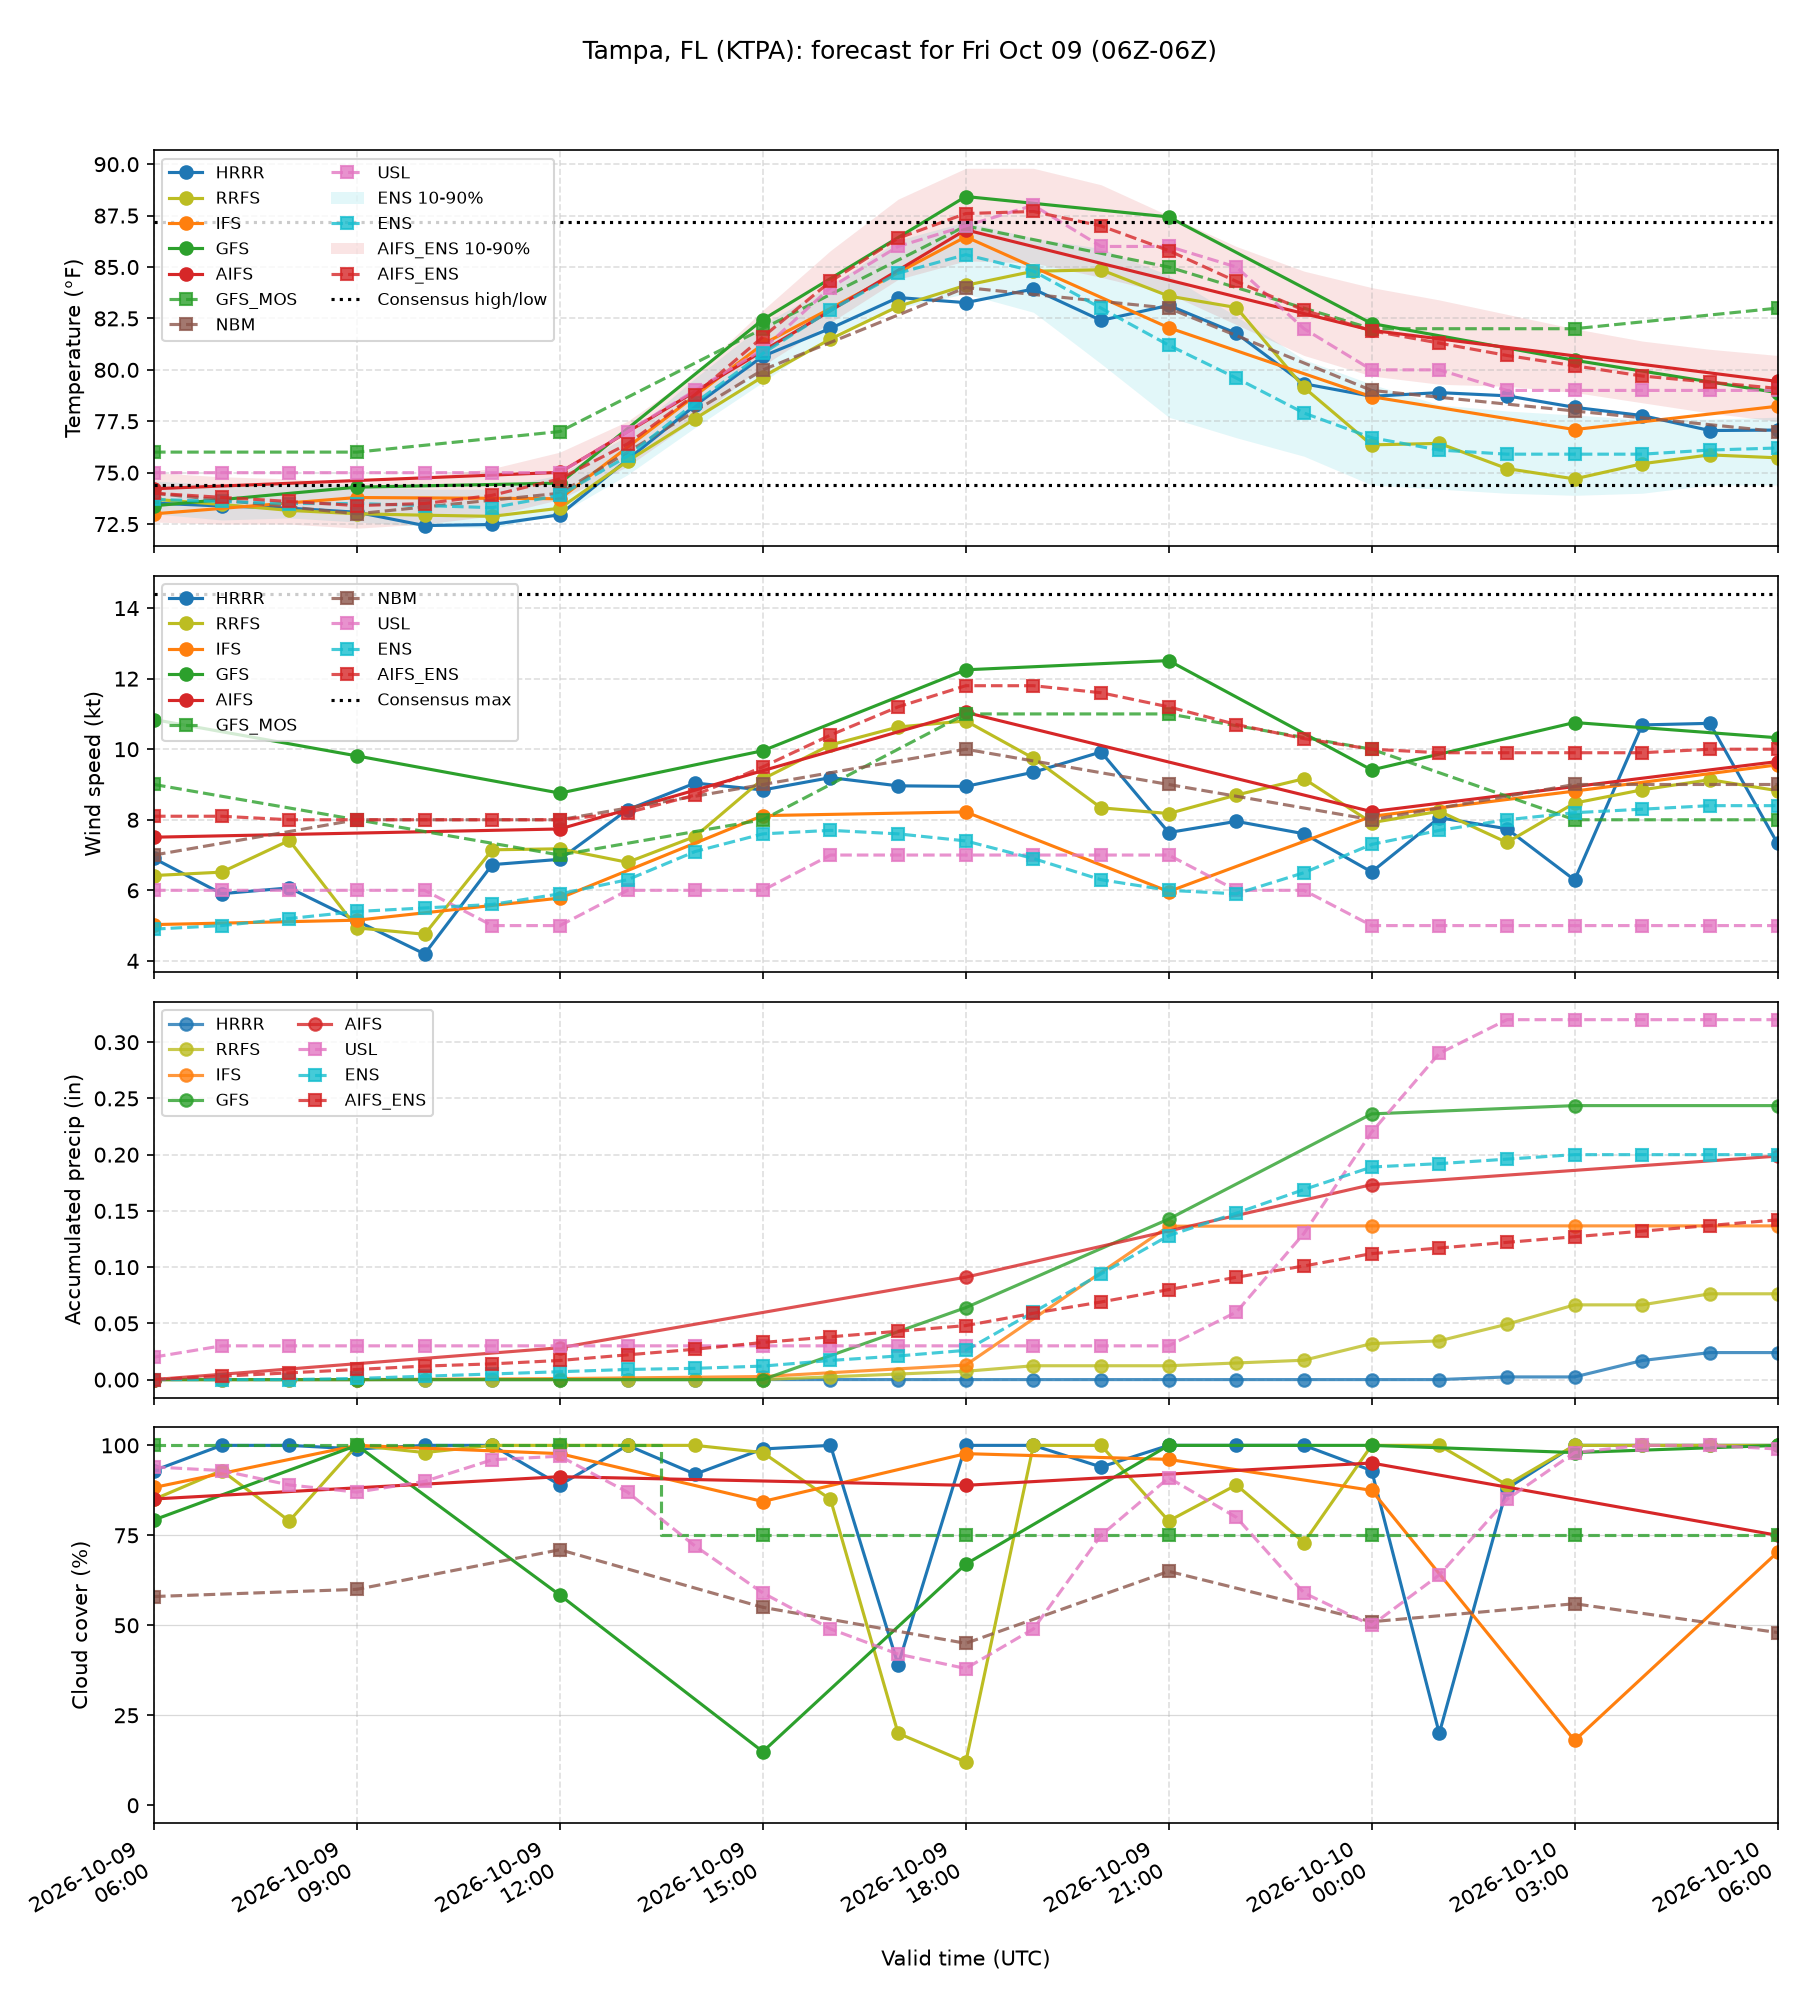
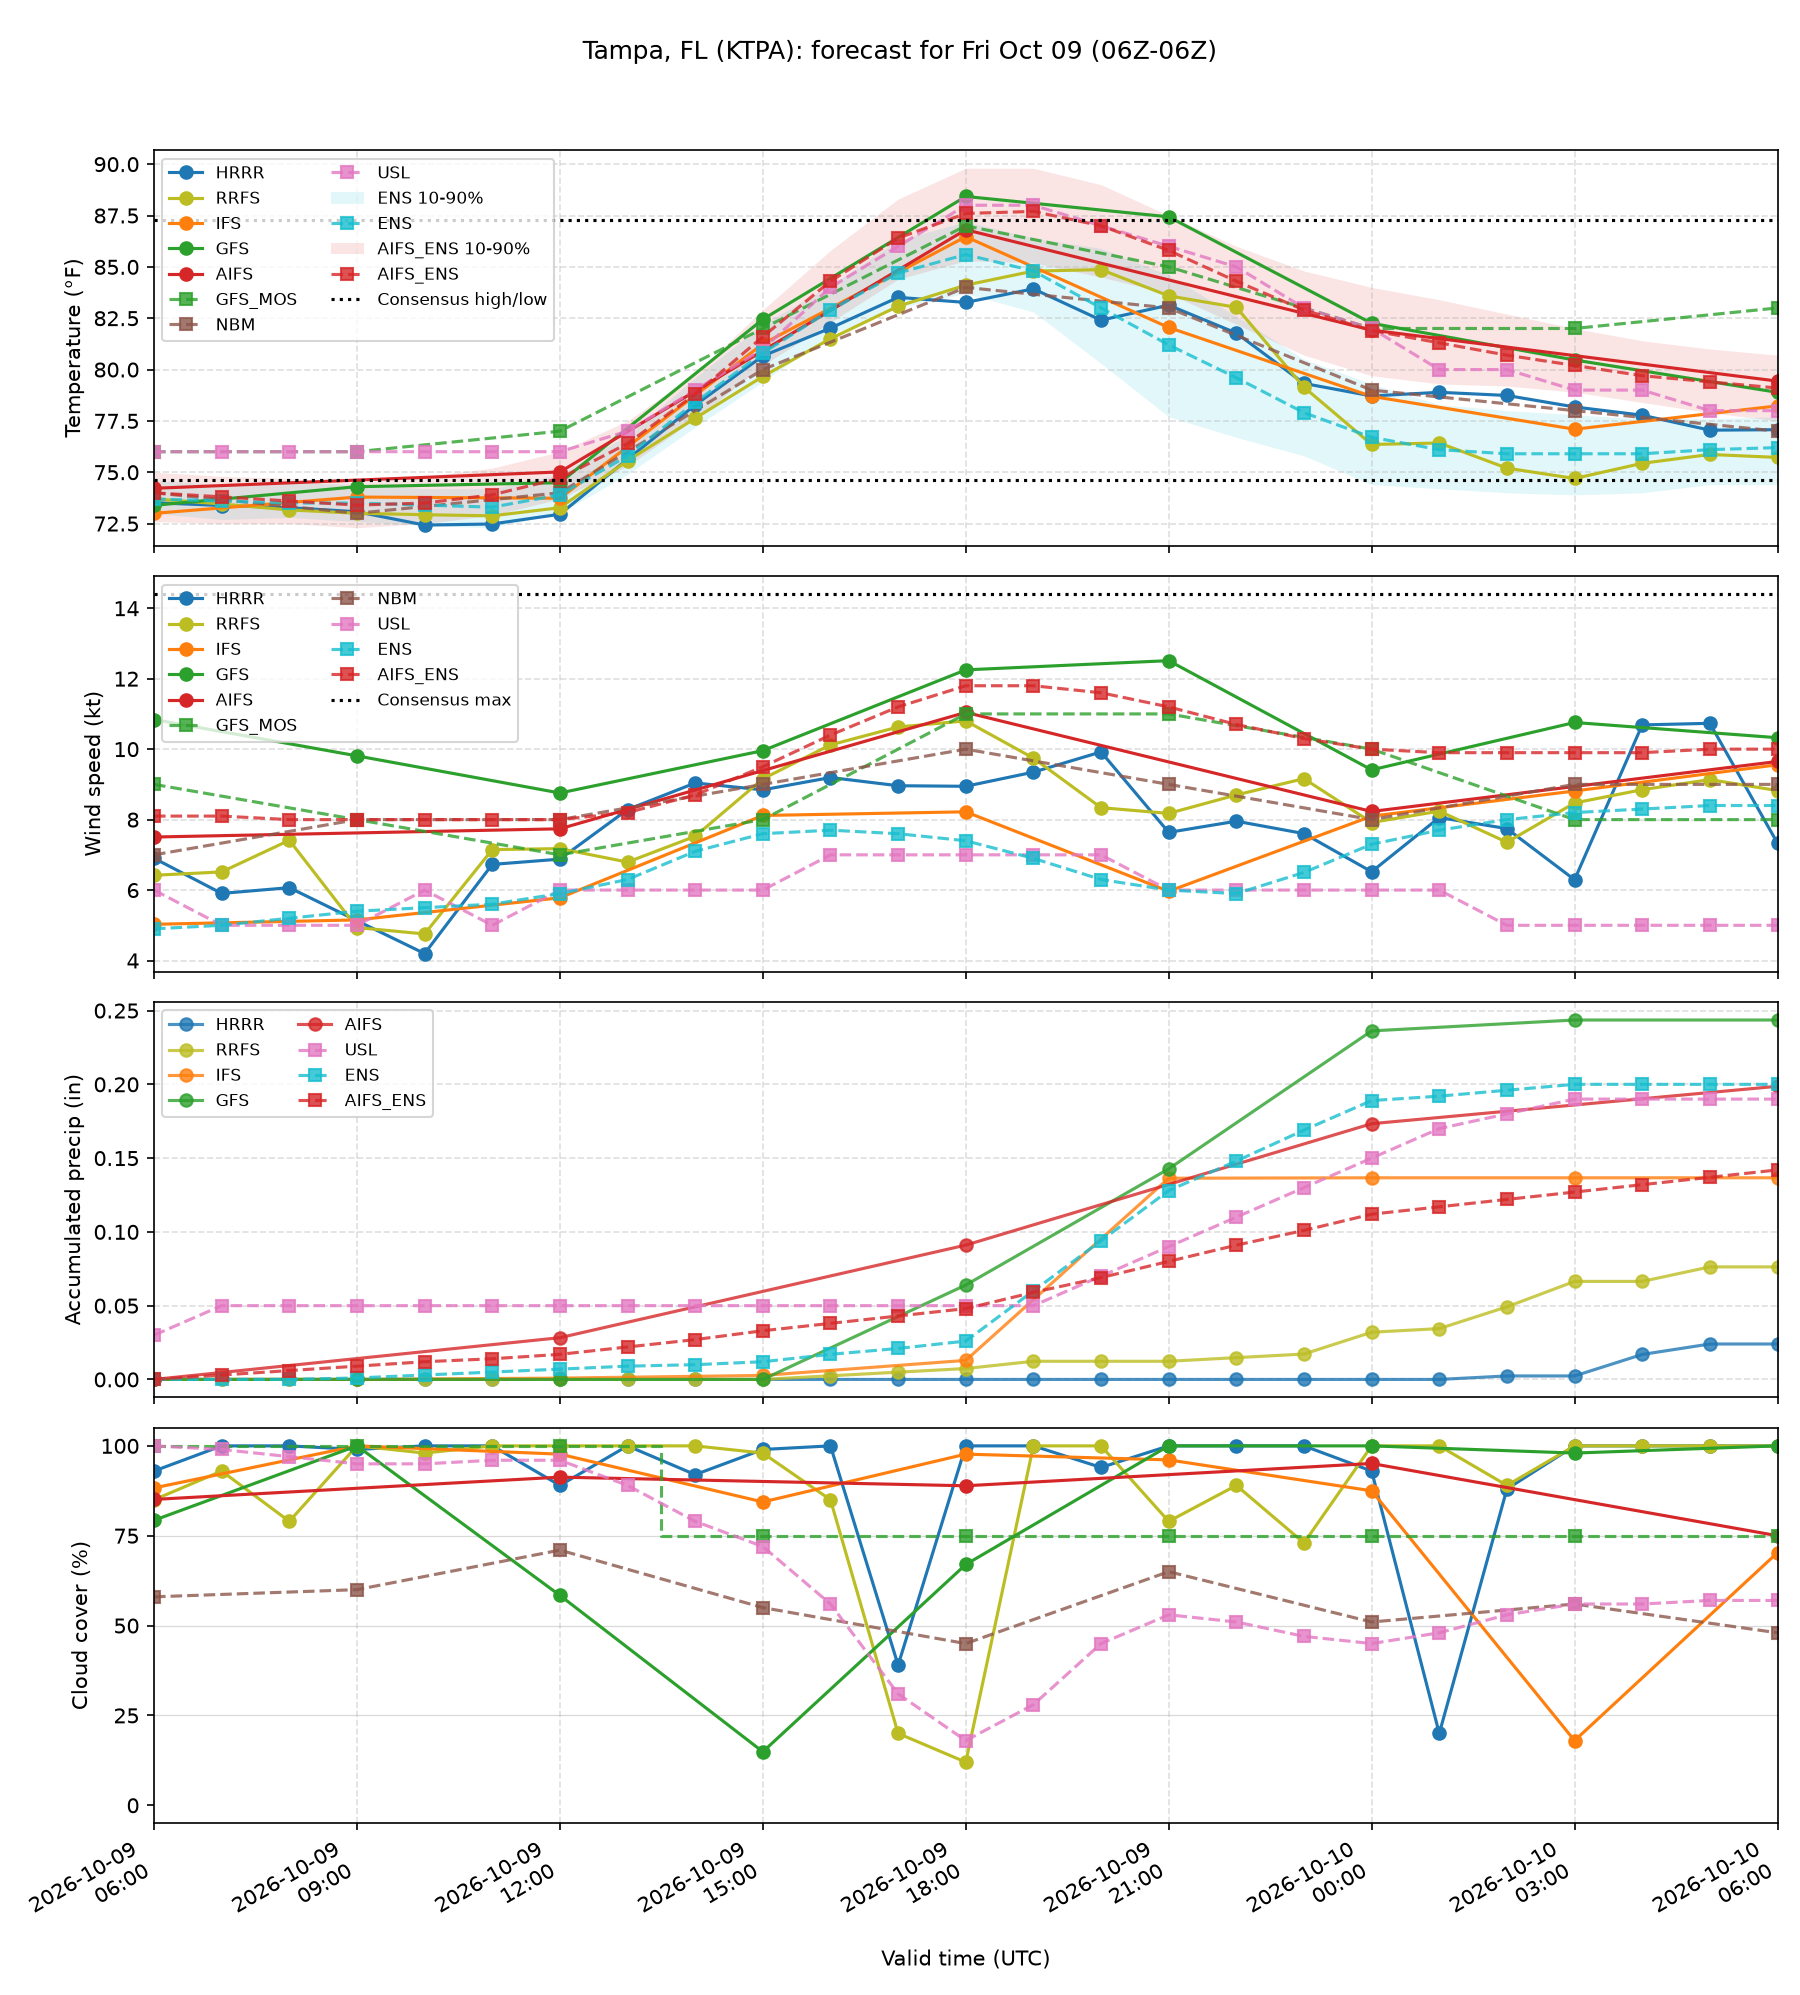
update wxchallenge: 2026-10-08T22:36:23+00:00

diff --git a/weather-forecasts/data/wxchallenge/brief.md b/weather-forecasts/data/wxchallenge/brief.md
@@ -3,7 +3,7 @@
 - Station: **KTPA**
 - Target day: **2026-10-09**, scored over 2026-10-09T06Z to 2026-10-10T06Z (UTC, 06Z to 06Z)
 - Submission deadline: 2026-10-09T00Z (forecasts for a day are due at 00Z that day)
-- Generated: 2026-10-08T22:25:34+00:00 (refreshed several times an hour while the forecast job runs)
+- Generated: 2026-10-08T22:36:23+00:00 (refreshed several times an hour while the forecast job runs)
 - Units: temperature °F, wind kt (max sustained), precipitation inches (liquid)
 
 ## How to use this brief (for AI assistants)
@@ -35,14 +35,14 @@ Run = day/hour (UTC) of the model initialization.
 | AIFS | 08/12Z | 86.8 | 74.2 | 11.0 | 0.20 |
 | GFS_MOS | 08/18Z | 89.0 | 76.0 | 11.0 | 0.20 |
 | NBM | 08/18Z | 87.0 | 73.0 | 10.0 | 0.12 |
-| USL | 08/12Z | 88.0 | 74.0 | 11.0 | 0.33 |
+| USL | 08/22Z | 89.0 | 75.0 | 11.0 | 0.24 |
 | ENS | 08/06Z | 85.7 | 73.1 | 9.3 | 0.20 |
 | AIFS_ENS | 08/12Z | 87.8 | 73.3 | 12.6 | 0.14 |
 | GEFS | 08/12Z | 88.8 | 75.5 | 14.0 | 0.14 |
 | HRRRCAST (precip only) | 08/12Z | — | — | — | 0.01 |
 | REFS (precip only) | 08/18Z | — | — | — | 0.08 |
 | NBM_QMD (precip only) | 08/12Z | — | — | — | 0.19 |
-| **CONSENSUS** |  | **87.2** | **74.4** | **14.4** | **0.17** |
+| **CONSENSUS** |  | **87.3** | **74.6** | **14.4** | **0.16** |
 
 Notes:
 - AIFS: 6-hourly output: high/low likely underdone
@@ -284,25 +284,25 @@ Chance (%) of ≥0.01" in each 6-hour block, 06-12/12-18/18-00/00-06 UTC, agains
 | 10-06 | 1.36" (wet: 12-18, 18-00, 00-06) | 55/65/78/61 | 17/45/63/68 | 31/84/96/86 | 61/98/100/94 | 94/97/100/42 | 33/100/100/100 | 24h 100% | 16/46/86/61 |
 | 10-07 | 2.16" (wet: 06-12, 12-18, 18-00, 00-06) | 52/92/87/86 | 73/79/74/42 | 96/98/100/78 | 98/100/98/88 | 90/100/100/94 | 100/100/100/100 | 24h 100% | 61/81/91/55 |
 
-## Today so far (2026-10-08, through 2026-10-08T21:53Z)
+## Today so far (2026-10-08, through 2026-10-08T22:21Z)
 
-This is the day in progress (not the target day), scored against the runs submitted before its deadline. Observed so far: high 79.0 °F, low 75.0 °F, max wind 7 kt, precip 0.38" (16 hourly obs).
+This is the day in progress (not the target day), scored against the runs submitted before its deadline. Observed so far: high 79.0 °F, low 75.0 °F, max wind 7 kt, precip 0.39" (16 hourly obs).
 
 Temp bias/MAE are over the hourly obs so far. High/low columns show the model's daily value and (in brackets) its difference from the observed extreme so far; "pending" means the model's expected time of that extreme hasn't passed, so the observed value can still change.
 
 | Model | Run | Temp bias | Temp MAE | High (err) | Low (err) | Wind bias | Precip so far | Precip err |
 | --- | --- | --: | --: | --: | --: | --: | --: | --: |
-| HRRR | 07/18Z | -1.3 | 1.5 | 79 (+0) | 73 (-2) pending | +2.3 | 1.40 | +1.02 |
-| RRFS | 07/18Z | -1.1 | 1.8 | 80 (+1) | 69 (-6) pending | +0.3 | 0.21 | -0.17 |
-| IFS | 07/12Z | -1.2 | 1.2 | 81 (+2) pending | 74 (-2) pending | -1.1 | 0.72 | +0.34 |
-| GFS | 07/18Z | -0.8 | 1.9 | 82 (+3) | 72 (-2) pending | +4.8 | 0.44 | +0.06 |
-| AIFS | 07/12Z | -0.7 | 1.0 | 79 (+0) | 74 (-1) pending | +0.6 | 1.05 | +0.67 |
+| HRRR | 07/18Z | -1.3 | 1.5 | 79 (+0) | 73 (-2) pending | +2.3 | 1.41 | +1.02 |
+| RRFS | 07/18Z | -1.1 | 1.8 | 80 (+1) | 69 (-6) pending | +0.3 | 0.23 | -0.16 |
+| IFS | 07/12Z | -1.2 | 1.2 | 81 (+2) | 74 (-2) pending | -1.1 | 0.75 | +0.36 |
+| GFS | 07/18Z | -0.8 | 1.9 | 82 (+3) | 72 (-2) pending | +4.8 | 0.48 | +0.09 |
+| AIFS | 07/12Z | -0.7 | 1.0 | 79 (+0) | 74 (-1) pending | +0.6 | 1.08 | +0.69 |
 | GFS_MOS | 07/18Z | +0.4 | 0.8 | 83 (+4) | 74 (-1) pending | +1.7 | — | — |
 | NBM | 07/18Z | -0.5 | 1.5 | 81 (+2) | 73 (-2) | +2.6 | — | — |
-| USL | 07/22Z | +1.5 | 1.6 | 83 (+4) | 75 (+0) | +2.1 | 0.50 | +0.12 |
-| ENS | 07/12Z | -1.1 | 1.4 | 79 (+0) | 73 (-2) | +0.6 | 1.09 | +0.71 |
-| AIFS_ENS | 07/12Z | -0.5 | 1.3 | 80 (+1) | 74 (-2) | +1.8 | 1.02 | +0.64 |
-| GEFS | 07/18Z | +0.5 | 0.9 | 81 (+2) | 75 (+0) | +5.5 | 0.50 | +0.12 |
+| USL | 07/22Z | +1.5 | 1.6 | 83 (+4) | 75 (+0) | +2.1 | 0.51 | +0.12 |
+| ENS | 07/12Z | -1.1 | 1.4 | 79 (+0) | 73 (-2) | +0.6 | 1.12 | +0.73 |
+| AIFS_ENS | 07/12Z | -0.5 | 1.3 | 80 (+1) | 74 (-2) | +1.8 | 1.06 | +0.67 |
+| GEFS | 07/18Z | +0.5 | 0.9 | 81 (+2) | 75 (+0) | +5.5 | 0.53 | +0.14 |
 
 ## Raw data
 
